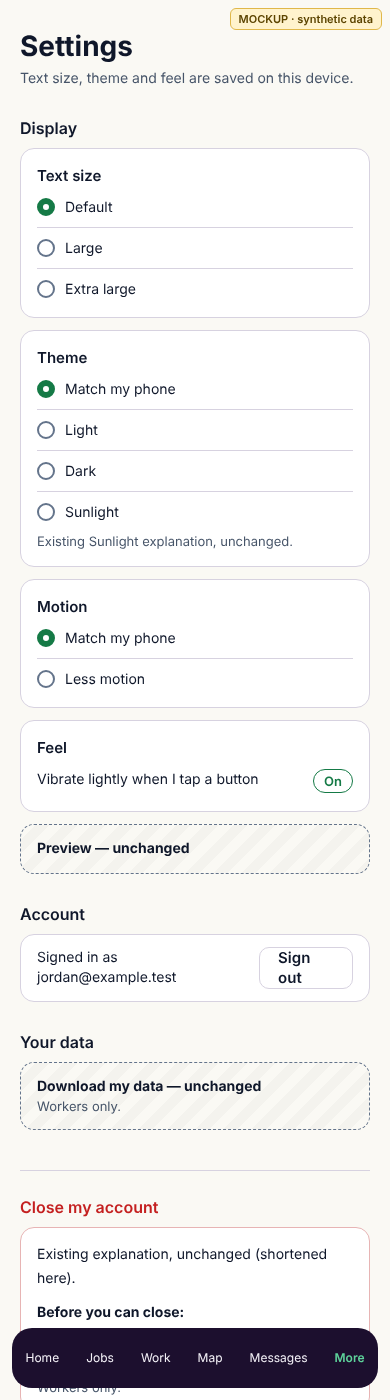
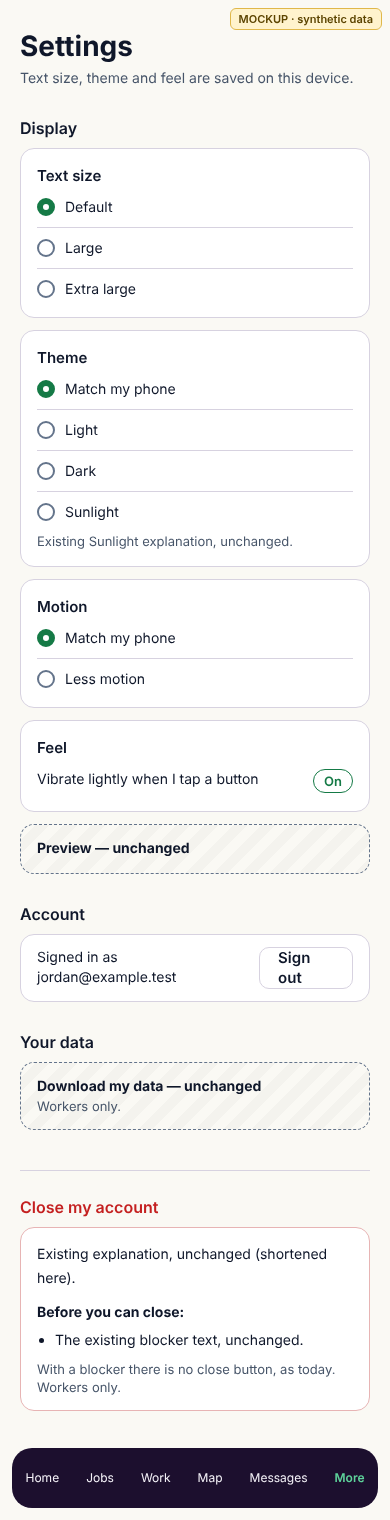
Mockups: re-check fixes (Political fit keeps its name for the versioned sharing hint; consistent home area; strings move to one module before pinning)
Claude-Session: https://claude.ai/code/session_01M5jonG7B326Ty4GJKyZ5gK

diff --git a/docs/design/hero-board/mockups/profile-settings-2026-11-02/src/profile-1440.html b/docs/design/hero-board/mockups/profile-settings-2026-11-02/src/profile-1440.html
@@ -1,9 +1,10 @@
-<!doctype html><meta charset=utf-8><link rel=stylesheet href=base.css><body><div class="frame" style="width:1440px;height:1000px"><div class=tag>MOCKUP · synthetic data</div>
+<!doctype html><meta charset=utf-8><link rel=stylesheet href=base.css><body><div class="frame" style="width:1440px;height:1080px"><div class=tag>MOCKUP · synthetic data</div>
 <div class=top><b>turfcut</b><span>Home</span><span>Jobs</span><span>Work</span><span>Map</span><span>Messages</span><span style="color:var(--fg);font-weight:600">Profile</span><span>Campaign feed</span><span>Earnings</span></div>
 <div class="card side" style="left:170px"><div class=on>Profile</div><div>Earnings</div><div>Availability</div><div>Credentials</div><div>Who sees what</div><div>Political preferences</div><div>What organizations see</div><div>Settings &amp; sign out</div></div>
 <div style="position:absolute;left:430px;top:96px;width:680px">
-<div style="display:flex;align-items:center;gap:16px"><div class=av>JB</div><div><h1>Jordan Blake</h1><p class=meta style="margin:0">Denver, CO</p></div></div>
-<div class="sec card rows" style="margin-top:20px"><div><span>Credentials</span><span>1 on file</span></div><div><span>Availability</span><span>Set</span></div><div><span>Payout setup</span><span>Set up payouts</span></div><div><span>Who sees what</span><span>Set</span></div><div><span>Political preferences</span><span style="color:var(--danger)">Needs reconfirming</span></div></div>
+<div style="display:flex;align-items:center;gap:16px"><div class=av>JB</div><div><h1>Jordan Blake</h1><p class=meta style="margin:0">Capitol Hil</p></div></div>
+<div class="sec card rows" style="margin-top:20px"><div><span>Credentials</span><span>1 on file</span></div><div><span>Availability</span><span>Set</span></div><div><span>Payout setup</span><span>Set up payouts</span></div><div><span>Who sees what</span><span>Set</span></div><div><span>Political fit</span><span style="color:var(--danger)">Needs reconfirming</span></div></div>
+<div class=warn style="margin-top:12px">Turfcut can't place "Capitol Hil", so organizations can't find you yet. Type a ZIP code, or a city with its state ("Aurora, CO"). <u>Fix it</u></div>
 <p class=note>The phone's menu rows as one compact list: same labels, same status words, each a link.</p>
 <div class=sec><h2>Work record</h2><div class=ph><b>ScorecardPanel — unchanged</b>Tiles, Verified strengths, Recent history, The math behind every number (open, as today: question 1), Recent activity and the period table, and the "no overall score is computed" note.</div></div>
 <div class=sec><div style="display:flex;justify-content:space-between;align-items:baseline"><h2>Experience</h2><span class=btn style="min-height:36px">+ Add a campaign</span></div>

diff --git a/docs/design/hero-board/mockups/profile-settings-2026-11-02/src/profile-390.html b/docs/design/hero-board/mockups/profile-settings-2026-11-02/src/profile-390.html
@@ -1,11 +1,11 @@
 <!doctype html><meta charset=utf-8><link rel=stylesheet href=base.css><body><div class="frame" style="width:390px;height:1500px"><div class=tag>MOCKUP · synthetic data</div><div class=page>
-<div style="display:flex;flex-direction:column;align-items:center;gap:6px;margin-top:4px"><div class=av>JB</div><h1 style="font-size:24px;line-height:32px">Jordan Blake</h1><p class=meta style="margin:0">Denver, CO</p></div>
+<div style="display:flex;flex-direction:column;align-items:center;gap:6px;margin-top:4px"><div class=av>JB</div><h1 style="font-size:24px;line-height:32px">Jordan Blake</h1><p class=meta style="margin:0">Capitol Hil</p></div>
 <div class="sec card menu">
 <div><span class=ic></span><span class=lbl>Credentials</span><span class=st>1 on file</span><span class=chev>›</span></div>
 <div><span class=ic></span><span class=lbl>Availability</span><span class=st>Set</span><span class=chev>›</span></div>
 <div><span class=ic></span><span class=lbl>Payout setup</span><span class=st>Set up payouts</span><span class=chev>›</span></div>
 <div><span class=ic></span><span class=lbl>Who sees what</span><span class=st>Set</span><span class=chev>›</span></div>
-<div><span class=ic></span><span class=lbl>Political preferences</span><span class="st alert">Needs reconfirming</span><span class=chev>›</span></div>
+<div><span class=ic></span><span class=lbl>Political fit</span><span class="st alert">Needs reconfirming</span><span class=chev>›</span></div>
 <div><span class=ic></span><span class=lbl>What organizations see</span><span class=chev style="margin-left:auto">›</span></div>
 <div><span class=ic></span><span class=lbl>Settings &amp; sign out</span><span class=chev style="margin-left:auto">›</span></div>
 </div>

diff --git a/docs/design/hero-board/mockups/profile-settings-2026-11-02/src/settings-390.html b/docs/design/hero-board/mockups/profile-settings-2026-11-02/src/settings-390.html
@@ -1,4 +1,4 @@
-<!doctype html><meta charset=utf-8><link rel=stylesheet href=base.css><body><div class="frame" style="width:390px;height:1400px"><div class=tag>MOCKUP · synthetic data</div><div class=page>
+<!doctype html><meta charset=utf-8><link rel=stylesheet href=base.css><body><div class="frame" style="width:390px;height:1520px"><div class=tag>MOCKUP · synthetic data</div><div class=page>
 <h1>Settings</h1><p class=meta>Text size, theme and feel are saved on this device.</p>
 <div class=sec><h2>Display</h2>
 <div class="card group"><h3>Text size</h3><div class=radio><span class="dot on"></span>Default</div><div class=radio><span class=dot></span>Large</div><div class=radio><span class=dot></span>Extra large</div></div>

diff --git a/docs/design/hero-board/mockups/profile-settings-2026-11-02/PLAN.md b/docs/design/hero-board/mockups/profile-settings-2026-11-02/PLAN.md
@@ -23,14 +23,15 @@ Availability, credentials, political-fit preferences, preview and setup already 
 - **Menu rows (phone):** labels follow `PROFILE_SECTIONS`, the desktop sub-nav, so both name things the same way.
   - "Sharing & privacy" becomes **Who sees what**.
   - "Display settings" becomes **Settings & sign out**.
-  - New: **Political preferences** and **What organizations see**.
+  - New: **Political fit** and **What organizations see**.
+  - "Political fit", not the side nav's "Political preferences": the Who sees what page's hint says the answers are "under Political fit on your profile". That hint is versioned consent wording (`SHARING_TEXT_VERSION`), and changing it would ask every worker to reconfirm. The side nav's different label is already the case today.
   - The "Work record" and "Experience" rows go: those sections follow straight after, so the rows only scrolled down.
-- **Political preferences status**, from `loadLatestPreference`:
+- **Political fit status**, from `loadLatestPreference`:
   - **"Needs reconfirming"** in the danger colour whenever the consent status isn't `current` (expired or reworded). Until then nothing is used or shown, so the row must never name a mode.
   - Otherwise the current mode's label ("Private", "Organizations I work with", "Recruiters I approve").
   - **"Not set yet"** when no answer exists. That's today's wording.
 - **Desktop:** the left sub-nav stays. The same rows and status words appear as one compact list under the name.
-- **Home-area warning:** "Turfcut can't place … so organizations can't find you yet" today lives only in the profile's Who sees what section. It moves directly under the menu (shown only when findable and the area can't be placed), and onto the Sharing page (see 3). It is never dropped.
+- **Home-area warning:** "Turfcut can't place … so organizations can't find you yet" today lives only in the profile's Who sees what section. It moves directly under the menu (shown only when findable and the area can't be placed), and onto the Sharing page (see 3). It is never dropped. Both read the **saved** choices (as `homePlaced` does today), never the form being edited.
 - **Work record:** ScorecardPanel unchanged. "The math behind every number" stays open (question 1). ScorecardPanel is shared with the organization's view of a worker, so any fold would be a profile-only prop.
 - **Experience:** ExperienceList unchanged.
   - The existing ExperienceForm sits behind a "+ Add a campaign" button, closed by default even with no records.
@@ -38,6 +39,7 @@ Availability, credentials, political-fit preferences, preview and setup already 
 - **Contact:** PhoneForm unchanged and stays on Profile (question 2).
 - **Removed from this page:** the duplicate Availability, Credentials, Who sees what and Political fit sections. Each has its own page, linked with its status.
   - The section's "Not until you confirm your choices" line is covered by the existing reminder card ("Check who sees what"), which stays.
+  - The Political fit section's explanation of a lapsed consent ("until then nothing is used for matching or shown to organizations") is then only on `/profile/preferences`. On Profile the row's "Needs reconfirming" leads there.
 
 ## 2. Settings — `settings-390.png`
 
@@ -54,7 +56,8 @@ Availability, credentials, political-fit preferences, preview and setup already 
 ## 3. Who sees what — `sharing-390.png`
 
 - **Layout only.** Every label, explanation, hint and option keeps its exact words. The mockup shortens two long paragraphs and marks where.
-- The wording is versioned by hand: `SHARING_TEXT_VERSION` in `src/lib/sharing.ts`, which `loadSharing`, `saveSharing`, the form and matches compare against. No test pins the strings today. So this slice **adds a test that pins the labels and explanations**, which makes "layout only" provable: any rewording fails the test and needs a deliberate version bump.
+- The wording is versioned by hand: `SHARING_TEXT_VERSION` in `src/lib/sharing.ts`, which `loadSharing`, `saveSharing`, the form and matches compare against. No test pins the strings today, and most of them live in JSX: the page's lead and hints, SharingForm's explanations, and `/profile/setup`, which the same version covers.
+- So the slice first moves those strings, **unchanged**, into one module beside `PART_DETAILS`, and the pages render them from there. A test then pins them with `SHARING_TEXT_VERSION`, which makes "layout only" provable: any rewording fails the test and needs a deliberate version bump.
 - Each part becomes one card, with its options as plain radio rows separated by hairlines instead of three bordered cards.
 - The home-area warning appears here too, next to "Let organizations find me", when findable and the area can't be placed.
 - The same radio-row style applies to the single-choice option cards in Settings and Political preferences. The job builder and signup's two-way account-type switch keep their cards.
@@ -70,7 +73,7 @@ Availability, credentials, political-fit preferences, preview and setup already 
   - expired credential (row in danger)
   - no home area
   - payouts not available
-- **Settings:** signed out, signed in without a profile, worker, organization member, staff, close blocked, close allowed (confirmation step), closure facts unavailable.
+- **Settings:** signed out, signed in without a profile, worker, organization member, staff, close blocked, close allowed (confirmation step), closure facts unavailable, failed sign-out.
 - **Sharing:** defaults never saved, saved, needs confirming, findable with an unplaceable home area, failed save.
 
 Each at 390 and 1440, in light and dark.
